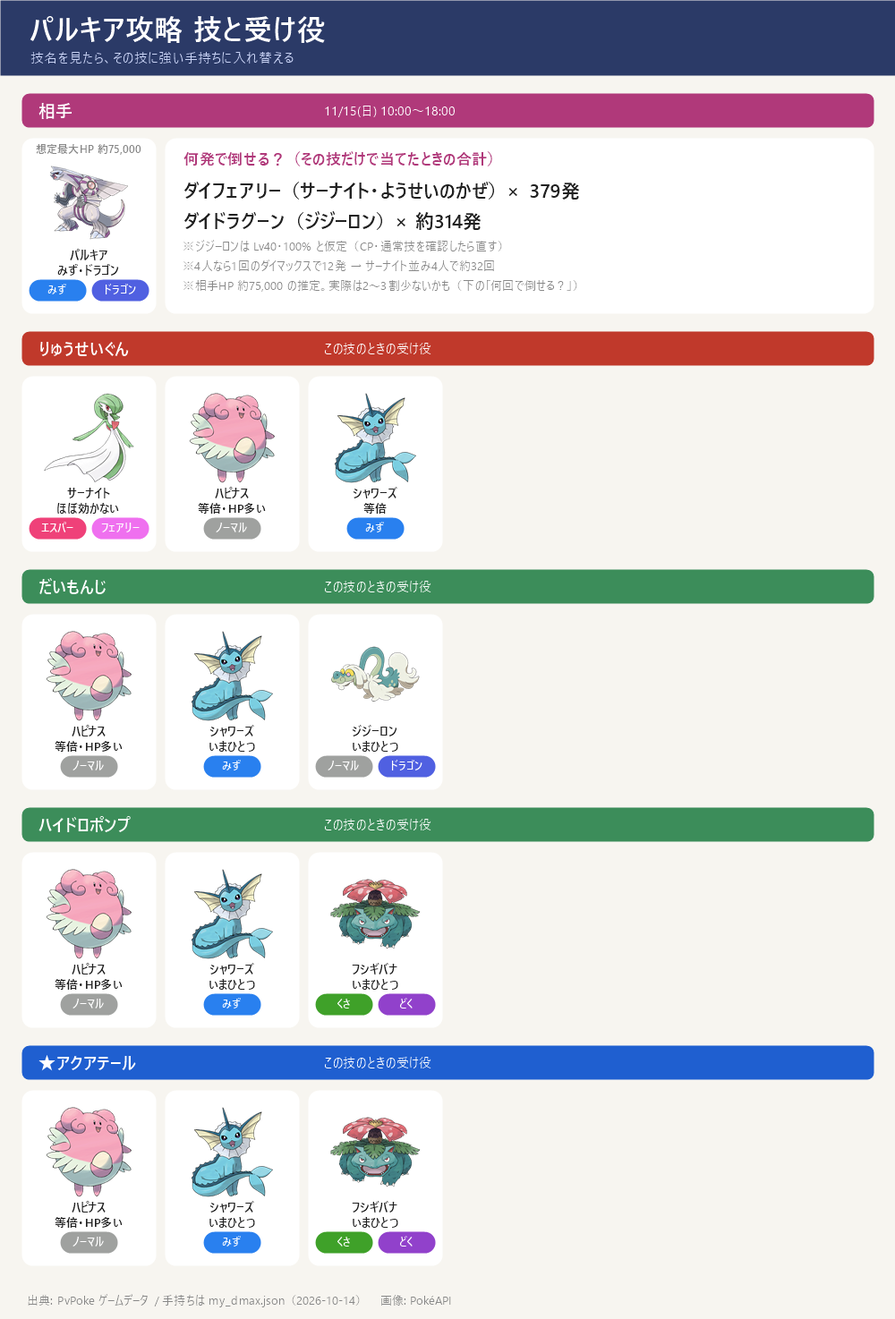
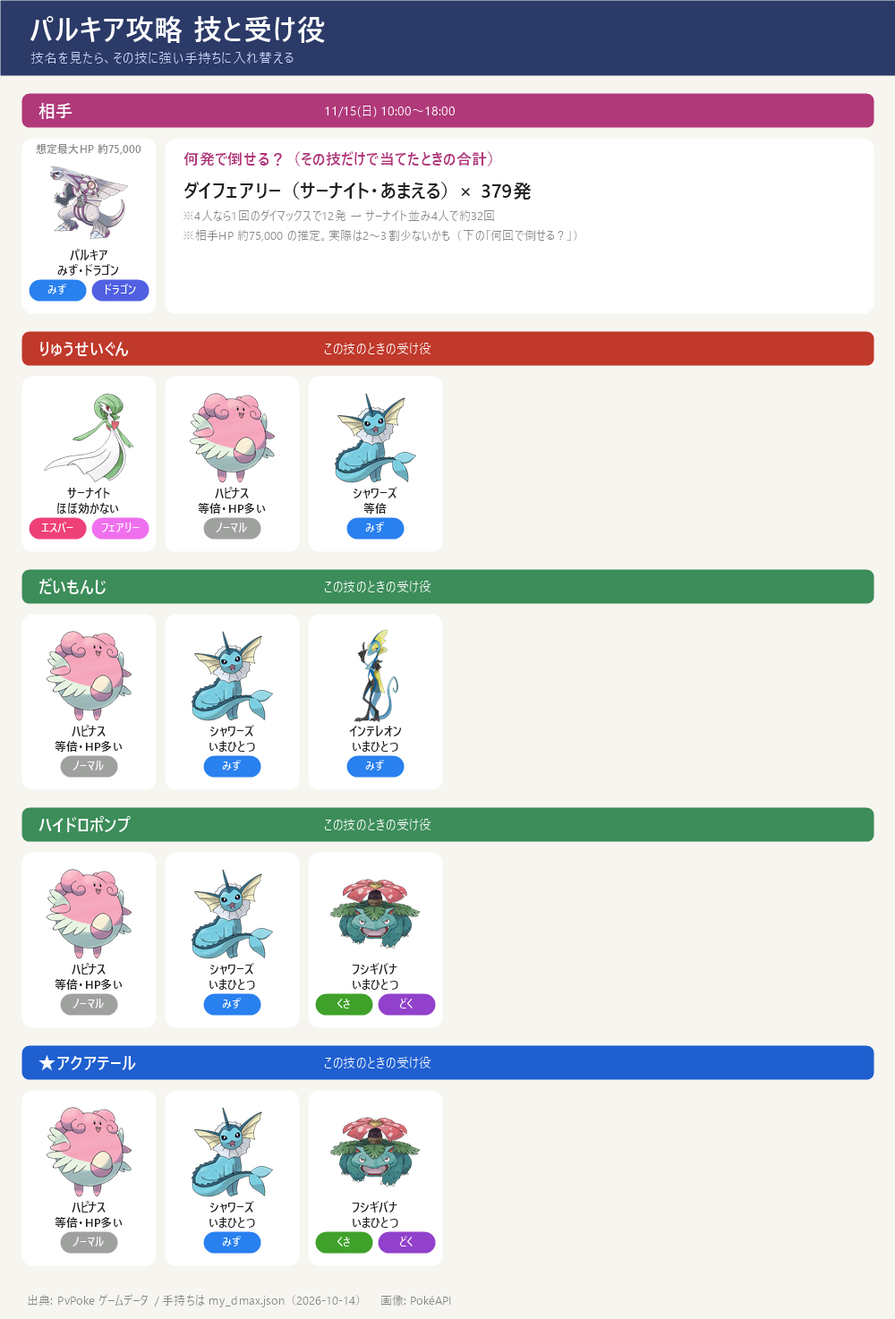
話題ページ dmax-palkia

Changed region(s): [[0.186, 0.1248, 0.651, 0.2185], [0.341, 0.4681, 0.496, 0.5929]]

diff --git a/topics/dmax-palkia/index.html b/topics/dmax-palkia/index.html
@@ -6,5 +6,6 @@ header{background:#2B3A67;color:#fff;padding:16px}header h1{margin:0;font-size:2
 main{max-width:1000px;margin:0 auto;padding:0 16px 40px}h2{font-size:19px;border-left:6px solid #2B3A67;padding-left:10px;margin:28px 0 8px}
 ul{padding-left:1.2em;margin:6px 0}li{margin:4px 0}li.s{list-style:none;margin-left:1em;color:var(--fg);font-size:15px}li.s::before{content:'– ';color:var(--muted)}img{width:100%;height:auto;display:block;border-radius:8px;margin:10px 0;background:#fff}
 .sub{color:var(--muted);margin:0}.src{color:var(--muted);font-size:13px;margin-top:30px}nav a{display:inline-block;margin:4px 8px 0 0}
+details{margin:10px 0}summary{cursor:pointer;color:var(--muted)}
 .nest{background:var(--card);border-left:6px solid #2E7D6B;padding:8px 12px;border-radius:6px;margin:12px 0}
-</style></head><body><header><h1>ダイマックス パルキア 攻略（11/15 日）</h1><nav><a href='../../'>← 一覧</a></nav></header><main><ul><li><b>GOワイルドエリア：グローバル 11/15(日) 10:00～18:00</b>。ダイマックス パルキア（<b>みず・ドラゴン</b>）</li><li><span style='font-weight:bold;color:#B0397A'>弱点：ドラゴン・フェアリー（2倍）</span>。攻撃役はサーナイト（通常技をようせいのかぜに）・ジジーロン（ドラゴンブレスなら）・ニンフィア（入手できたら）</li><li><span style='font-weight:bold;color:#1F5FD0'>ねらい目の技：アクアテール（威力60）</span>。いちばん危ないのは <span style='font-weight:bold;color:#C0392B'>りゅうせいぐん（180）</span>、次がハイドロポンプ（162）</li></ul><h2 style='border-color:#B0397A'>技カード</h2><a href='pokego_extra0.png'><img src='pokego_extra0.png' alt='技カード' loading=lazy></a><ul></ul><h2 style='border-color:#B0397A'>スペシャルアタック候補とねらい目</h2><a href='pokego_extra1.png'><img src='pokego_extra1.png' alt='スペシャルアタック候補とねらい目' loading=lazy></a><ul><li><b>りゅうせいぐん</b>（ドラゴン）威力 <b>180</b> <span style='font-weight:bold;color:#C0392B'>← いちばん危ない</span></li><li><b>だいもんじ</b>（ほのお）威力 <b>140</b></li><li><b>ハイドロポンプ</b>（みず）威力 <b>162</b></li><li><span style='font-weight:bold;color:#1F5FD0'>★ <b>アクアテール</b>（みず）威力 <b>60</b> ← ねらい目（いちばん弱い）</span></li><li><span style='color:#888888'>「あくうせつだん」はオリジンフォルムだけの技なので、ダイマックス版は使わない見込み。通常技はドラゴンブレス／ドラゴンテール</span></li><li>技は選べない。<b>最初の大技の名前を見て</b>、受け役を合わせる</li></ul><h2 style='border-color:#5B4B8A'>手持ちが受けるダメージ</h2><ul><li><b>ハピナス</b>：りゅうせいぐん 180 ／ だいもんじ 140 ／ ハイドロポンプ 162 ／ アクアテール 60</li><li><b>シャワーズ</b>（預け中・CP未確認）：りゅうせいぐん 180 ／ <span style='font-weight:bold;color:#1F5FD0'>だいもんじ 88（いまひとつ）</span> ／ <span style='font-weight:bold;color:#1F5FD0'>ハイドロポンプ 101（いまひとつ）</span> ／ <span style='font-weight:bold;color:#1F5FD0'>アクアテール 38（いまひとつ）</span></li><li><b>サーナイト</b>：<span style='font-weight:bold;color:#1F5FD0'>りゅうせいぐん 70（ほぼ効かない）</span> ／ だいもんじ 140 ／ ハイドロポンプ 162 ／ アクアテール 60</li><li><b>メタグロス</b>：<span style='font-weight:bold;color:#1F5FD0'>りゅうせいぐん 112（いまひとつ）</span> ／ <span style='font-weight:bold;color:#C0392B'>だいもんじ 224（弱点）</span> ／ ハイドロポンプ 162 ／ アクアテール 60</li><li><b>フシギバナ</b>：りゅうせいぐん 180 ／ <span style='font-weight:bold;color:#C0392B'>だいもんじ 224（弱点）</span> ／ <span style='font-weight:bold;color:#1F5FD0'>ハイドロポンプ 101（いまひとつ）</span> ／ <span style='font-weight:bold;color:#1F5FD0'>アクアテール 38（いまひとつ）</span></li><li><b>インテレオン</b>：りゅうせいぐん 180 ／ <span style='font-weight:bold;color:#1F5FD0'>だいもんじ 88（いまひとつ）</span> ／ <span style='font-weight:bold;color:#1F5FD0'>ハイドロポンプ 101（いまひとつ）</span> ／ <span style='font-weight:bold;color:#1F5FD0'>アクアテール 38（いまひとつ）</span></li><li><b>カイリキー</b>：りゅうせいぐん 180 ／ だいもんじ 140 ／ ハイドロポンプ 162 ／ アクアテール 60</li><li><b>ジジーロン</b>（通常技未確認）：<span style='font-weight:bold;color:#C0392B'>りゅうせいぐん 288（弱点）</span> ／ <span style='font-weight:bold;color:#1F5FD0'>だいもんじ 88（いまひとつ）</span> ／ <span style='font-weight:bold;color:#1F5FD0'>ハイドロポンプ 101（いまひとつ）</span> ／ <span style='font-weight:bold;color:#1F5FD0'>アクアテール 38（いまひとつ）</span></li><li><b>ドサイドン</b>：りゅうせいぐん 180 ／ <span style='font-weight:bold;color:#1F5FD0'>だいもんじ 88（いまひとつ）</span> ／ <span style='font-weight:bold;color:#C0392B'>ハイドロポンプ 415（弱点）</span> ／ <span style='font-weight:bold;color:#C0392B'>アクアテール 154（弱点）</span></li><li><b>エースバーン</b>：りゅうせいぐん 180 ／ <span style='font-weight:bold;color:#1F5FD0'>だいもんじ 88（いまひとつ）</span> ／ <span style='font-weight:bold;color:#C0392B'>ハイドロポンプ 259（弱点）</span> ／ <span style='font-weight:bold;color:#C0392B'>アクアテール 96（弱点）</span></li><li><b>ゲンガー</b>：りゅうせいぐん 180 ／ だいもんじ 140 ／ ハイドロポンプ 162 ／ アクアテール 60</li><li><span style='color:#888888'>数字＝技の威力 × 相性（ボスと同じタイプの技は1.2倍）。並びは受けやすい順（防御とHPも計算に入れた）。ハピナスは相性が等倍でもHPがとても多いので上に来る</span></li></ul><h2 style='border-color:#C0392B'>何回で倒せる？（ダイマックス技の回数を逆算）</h2><ul><li><span style='color:#888888'>前提：相手のHP <b>約75,000</b>（Dittobase の推定値。公式の数字は未発表）、相手の防御の補正 0.85（Pokebase の初期値）。この計算で Lv40・100%のカイリキーをディアルガに当てると1発345になり、Dittobase の数字と一致。個体値は15/15/15として、CPからレベルを逆算。キノコ（2倍）・応援・相手の強化は入れていない</span></li><li><b>1発のダメージと、ひとりで倒すのに要る回数</b>（Lv1 → Lv3 にしたとき）</li><li><b>サーナイト（ようせいのかぜ → ダイフェアリー）</b>：1発 <b>198</b> → 379発 ／ Lv3：277 → 271発</li><li><span style='color:#C0392B'>サーナイト（今のねんりき → ダイサイコ）</span>：1発 124 → 605発 → <b>通常技をようせいのかぜに替える</b></li><li><b>ジジーロン（ドラゴンブレス → ダイドラグーン）</b>：Lv40・100%なら1発 239（Lv3：335）。CP・通常技を確認したら計算し直す</li><li><span style='color:#888888'>参考：ニンフィア Lv40・100% は 212（Lv3：297）。ハピナス（はたく）は 87 → 攻撃には使わない</span></li><li><b>ダイマックス1回 ＝ 1人3発</b>。4人なら1回で12発</li><li><b>4人全員がサーナイト並み（約200）なら</b>：1回で約2,400 → <b>ダイマックス約32回</b>。全員 Lv3（約280）なら約3,300 → <b>約23回</b></li><li><b>近道</b>：①サーナイトの通常技を替える ②ダイフェアリーを Lv2～3 に ③マックスキノコ（2倍）</li><li><span style='font-weight:bold;color:#C0392B'>一度に戦えるのは4人まで</span>（公式ヘルプ）。ポケらくは「最低3人」→ <b>4人そろえるのが前提</b>（キャンプファイア・現地で集める）</li><li><span style='color:#888888'>見直し（10/14）：ボスのHPはどのサイトにも未掲載。ポケらくの1発のダメージ（PL40・攻撃15・Lv1でドサイドン345）は上の計算の約1.36倍 → <b>上の回数は多めに出ている可能性</b>。実際は2～3割少ないかもしれない</span></li></ul><h2 style='border-color:#3C8D5A'>戦い方のコツ</h2><ul><li><b>野良では抜けずに受け役を入れ替える</b>：ボスの技（狙い撃ち1つ＋全体攻撃1つ）は挑戦ごとに抽選されるが、途中で抜けると残りの3人が不利になる → 技名を見て、その技に強い手持ちに替える。<b>入り直し</b>（MP は勝ったときだけ減る）は<b>知り合いと組んで、全員で決めたときだけ</b></li><li><b>タンクは通常技だけ連打</b>：スペシャル技よりメーターが早くたまる。0.5秒の通常技（ハピナスのはたく・メタグロスのれんぞくぎり）が向く</li><li><b>タンクは2体</b>：1体目で全体攻撃、2体目で単体攻撃を受ける（ドクターポケゴーゴーのおすすめ）</li><li><b>エネルギーはスワイプで取る</b>（タップではない）。アイコン1個でメーター <b>+10%</b></li><li><b>「狙われている」アイコンが出たら左右にスワイプして避ける</b>。<span style='color:#C0392B'>全体攻撃は避けられない</span></li><li><b>ダイマックス中は「盾 → 回復 → 攻撃」の順で決める</b>：まずダイウォール（3回まで重ねがけ）、HPが減っていればダイリカバリー、それ以外はダイ攻撃</li><li><b>ダイリカバリーは同じ4人グループの「場に出ている」4体だけ回復</b>。<span style='color:#C0392B'>控えのポケモンは回復しない</span></li><li><b>回復量は使ったポケモンの最大HPが基準</b>：Lv1 8%・Lv2 12%・Lv3 16% を4体に同じ量 → ハピナス（HP397）で Lv1 は <b>31</b>、Lv2 は <b>47</b>。<b>Lv2 に上げるのが先</b></li><li><b>★5 は6分40秒で時間切れ</b>。<span style='color:#C0392B'>途中からボスの攻撃が強くなる</span> → ダイマックスは出し惜しみしない</li><li><b>倒れても応援</b>：応援1回で仲間のメーター <b>+20%</b>。速く押しすぎると数えられないので、少し間をあけて押す</li><li><b>勝利の報酬</b>：ほしのすな15,000・XP15,000・ふしぎなアメXL1・アメ10・アメXL1・プレミアボール10（現地参加はXP＋2,500・ボール＋2）。色違いの可能性あり</li></ul><h2 style='border-color:#2B3A67'>MP（マックス粒子）の計画</h2><ul><li><b>1戦 800MP</b>（ポケらく：負けたら減らない）。<b>持てる上限は1,500</b>、1日に集められるのは<b>ふだん800 → 当日は1,600（チケット$11.99なら3,200）</b></li><li><b>11/14（ディアルガ）</b>：前の晩に1,500持っていれば ＋当日1,600 ＝ 3,100 → <b>3戦</b>（チケットありなら4,700 → 5戦）</li><li><b>11/15（パルキア）</b>：14日に使い切ると、15日は当日の1,600だけ → <b>2戦</b>。両日とも戦うなら、14日に700ほど残すと15日も3戦</li><li><b>準備の順番</b>：11/11ごろまではMPをマックス技のレベル上げ（ダイアース・ダイウォール）に使う → <b>11/12・13は使わずにためて1,500に</b>（1日800なので2日で満タン）</li><li><span style='color:#888888'>リサーチ・コード・粒子パックで入るMPは1日の上限に数えない</span></li></ul><h2 style='border-color:#D98E04'>並びと動き方</h2><ul><li><b>並び</b>：サーナイト（攻撃＋りゅうせいぐんの受け）／ジジーロン（攻撃）／ハピナス（回復）／シャワーズ（受け・手元に戻せたら）</li><li><b>ハピナス</b>：4つの技すべてで受けやすい順の1位 → 回復と受けの両方を任せる</li><li><b>シャワーズ</b>：だいもんじ・ハイドロポンプ・アクアテールを<b>いまひとつ</b>で受けられて、HPも多い → <b>パルキア戦の受け役に向く</b>。預け中なら11/15までに手元へ。CP・スペシャル技を確認する</li><li><b>サーナイト</b>：りゅうせいぐんは<b>ほぼ効かない</b>（フェアリー）。みず技・だいもんじは等倍</li><li><b>ジジーロン</b>：りゅうせいぐんが<b>弱点（288）</b> → 技名がりゅうせいぐんなら下げる</li><li><span style='font-weight:bold;color:#C0392B'>出さない</span>：ドサイドン（ハイドロポンプ415）・エースバーン（ハイドロポンプが弱点）・メタグロス（だいもんじが弱点）・ゲンガー</li></ul><p class=src>出典: タイプ・技・威力: PvPoke ゲームデータ・PokéAPI(pogoapi) ／ 人数: 公式ヘルプ ／ MP・報酬・コツ: ポケらく・ゲームウィズ・ドクターポケゴーゴー・公式サイト ／ 手持ち: my_dmax.json ／ 全体の作戦: 「ワイルドエリア2026 ダイマックス攻略」ページ<br>画像: PokéAPI ／ 更新 2026-10-18</p></main></body></html>
+</style></head><body><header><h1>ダイマックス パルキア 攻略（11/15 日）</h1><nav><a href='../../'>← 一覧</a></nav></header><main><ul><li><b>GOワイルドエリア：グローバル 11/15(日) 10:00～18:00</b>。ダイマックス パルキア（<b>みず・ドラゴン</b>）</li><li><span style='font-weight:bold;color:#B0397A'>弱点：ドラゴン・フェアリー（2倍）</span>。攻撃役はサーナイト（あまえる）・ニンフィア（入手できたら）。ほかは等倍なのでゲンガー</li><li><span style='font-weight:bold;color:#1F5FD0'>ねらい目の技：アクアテール（威力60）</span>。いちばん危ないのは <span style='font-weight:bold;color:#C0392B'>りゅうせいぐん（180）</span>、次がハイドロポンプ（162）</li></ul><h2 style='border-color:#B0397A'>技カード</h2><a href='pokego_extra0.png'><img src='pokego_extra0.png' alt='技カード' loading=lazy></a><ul></ul><h2 style='border-color:#B0397A'>スペシャルアタック候補とねらい目</h2><a href='pokego_extra1.png'><img src='pokego_extra1.png' alt='スペシャルアタック候補とねらい目' loading=lazy></a><ul><li><b>りゅうせいぐん</b>（ドラゴン）威力 <b>180</b> <span style='font-weight:bold;color:#C0392B'>← いちばん危ない</span></li><li><b>だいもんじ</b>（ほのお）威力 <b>140</b></li><li><b>ハイドロポンプ</b>（みず）威力 <b>162</b></li><li><span style='font-weight:bold;color:#1F5FD0'>★ <b>アクアテール</b>（みず）威力 <b>60</b> ← ねらい目（いちばん弱い）</span></li><li><span style='color:#888888'>「あくうせつだん」はオリジンフォルムだけの技なので、ダイマックス版は使わない見込み。通常技はドラゴンブレス／ドラゴンテール</span></li><li>技は選べない。<b>最初の大技の名前を見て</b>、受け役を合わせる</li></ul><h2 style='border-color:#5B4B8A'>手持ちが受けるダメージ</h2><ul><li><b>ハピナス</b>：りゅうせいぐん 180 ／ だいもんじ 140 ／ ハイドロポンプ 162 ／ アクアテール 60</li><li><b>シャワーズ</b>（預け中・CP未確認）：りゅうせいぐん 180 ／ <span style='font-weight:bold;color:#1F5FD0'>だいもんじ 88（いまひとつ）</span> ／ <span style='font-weight:bold;color:#1F5FD0'>ハイドロポンプ 101（いまひとつ）</span> ／ <span style='font-weight:bold;color:#1F5FD0'>アクアテール 38（いまひとつ）</span></li><li><b>サーナイト</b>：<span style='font-weight:bold;color:#1F5FD0'>りゅうせいぐん 70（ほぼ効かない）</span> ／ だいもんじ 140 ／ ハイドロポンプ 162 ／ アクアテール 60</li><li><b>メタグロス</b>：<span style='font-weight:bold;color:#1F5FD0'>りゅうせいぐん 112（いまひとつ）</span> ／ <span style='font-weight:bold;color:#C0392B'>だいもんじ 224（弱点）</span> ／ ハイドロポンプ 162 ／ アクアテール 60</li><li><b>フシギバナ</b>：りゅうせいぐん 180 ／ <span style='font-weight:bold;color:#C0392B'>だいもんじ 224（弱点）</span> ／ <span style='font-weight:bold;color:#1F5FD0'>ハイドロポンプ 101（いまひとつ）</span> ／ <span style='font-weight:bold;color:#1F5FD0'>アクアテール 38（いまひとつ）</span></li><li><b>インテレオン</b>：りゅうせいぐん 180 ／ <span style='font-weight:bold;color:#1F5FD0'>だいもんじ 88（いまひとつ）</span> ／ <span style='font-weight:bold;color:#1F5FD0'>ハイドロポンプ 101（いまひとつ）</span> ／ <span style='font-weight:bold;color:#1F5FD0'>アクアテール 38（いまひとつ）</span></li><li><b>カイリキー</b>：りゅうせいぐん 180 ／ だいもんじ 140 ／ ハイドロポンプ 162 ／ アクアテール 60</li><li><b>ドサイドン</b>：りゅうせいぐん 180 ／ <span style='font-weight:bold;color:#1F5FD0'>だいもんじ 88（いまひとつ）</span> ／ <span style='font-weight:bold;color:#C0392B'>ハイドロポンプ 415（弱点）</span> ／ <span style='font-weight:bold;color:#C0392B'>アクアテール 154（弱点）</span></li><li><b>エースバーン</b>：りゅうせいぐん 180 ／ <span style='font-weight:bold;color:#1F5FD0'>だいもんじ 88（いまひとつ）</span> ／ <span style='font-weight:bold;color:#C0392B'>ハイドロポンプ 259（弱点）</span> ／ <span style='font-weight:bold;color:#C0392B'>アクアテール 96（弱点）</span></li><li><b>ゲンガー</b>：りゅうせいぐん 180 ／ だいもんじ 140 ／ ハイドロポンプ 162 ／ アクアテール 60</li><li><span style='color:#888888'>数字＝技の威力 × 相性（ボスと同じタイプの技は1.2倍）。並びは受けやすい順（防御とHPも計算に入れた）。ハピナスは相性が等倍でもHPがとても多いので上に来る</span></li></ul><h2 style='border-color:#C0392B'>何回で倒せる？（ダイマックス技の回数を逆算）</h2><ul><li><span style='color:#888888'>前提：相手のHP <b>約75,000</b>（Dittobase の推定値。公式の数字は未発表）、相手の防御の補正 0.85（Pokebase の初期値）。この計算で Lv40・100%のカイリキーをディアルガに当てると1発345になり、Dittobase の数字と一致。個体値は15/15/15として、CPからレベルを逆算。キノコ（2倍）・応援・相手の強化は入れていない</span></li><li><b>1発のダメージと、ひとりで倒すのに要る回数</b>（Lv1 → Lv3 にしたとき）</li><li><b>サーナイト（あまえる → ダイフェアリー）</b>：1発 <b>198</b> → 379発 ／ Lv3：277 → 271発</li><li><span style='color:#888888'>参考：ニンフィア Lv40・100% は 212（Lv3：297）。ハピナス（はたく）は 87 → 攻撃には使わない</span></li><li><b>ダイマックス1回 ＝ 1人3発</b>。4人なら1回で12発</li><li><b>4人全員がサーナイト並み（約200）なら</b>：1回で約2,400 → <b>ダイマックス約32回</b>。全員 Lv3（約280）なら約3,300 → <b>約23回</b></li><li><b>近道</b>：①ダイフェアリーを Lv2～3 に ②マックスキノコ（2倍）</li><li><span style='font-weight:bold;color:#C0392B'>一度に戦えるのは4人まで</span>（公式ヘルプ）。ポケらくは「最低3人」→ <b>4人そろえるのが前提</b>（キャンプファイア・現地で集める）</li><li><span style='color:#888888'>見直し（10/14）：ボスのHPはどのサイトにも未掲載。ポケらくの1発のダメージ（PL40・攻撃15・Lv1でドサイドン345）は上の計算の約1.36倍 → <b>上の回数は多めに出ている可能性</b>。実際は2～3割少ないかもしれない</span></li></ul><h2 style='border-color:#3C8D5A'>戦い方のコツ</h2><ul><li><span style='font-weight:bold;color:#C0392B'>出陣させる3体：サーナイト・ゲンガー・ハピナス</span>（サーナイト＝攻撃・りゅうせいぐんの盾／ゲンガー＝攻撃／ハピナス＝最初の盾・回復）。<span style='color:#888888'>マックスバトルに連れて行けるのは1人3体まで。下の入れ替えはこの3体の中で行う</span></li><li><span style='font-weight:bold;color:#1F5FD0'>最初の受け役はハピナス</span>：ボスの技（狙い撃ち・全体攻撃）は<b>1回使われるまで分からない</b>（ほかの人に当たっても技名は出る）→ 技名が分かるまでは<b>ハピナス</b>で受ける（どの技も弱点にならず、HP が多い）。分かったら下のとおり入れ替える</li><li class=s><b>りゅうせいぐん</b>なら → 盾を<b>サーナイト</b>に替える（ほぼ効かない）。攻撃は<b>サーナイト・ゲンガー</b>でいく</li><li class=s><b>だいもんじ</b>なら → 盾はそのまま<b>ハピナス</b>（等倍）。攻撃は<b>サーナイト・ゲンガー</b>でいく</li><li class=s><b>ハイドロポンプ</b>なら → 盾はそのまま<b>ハピナス</b>（等倍）。攻撃は<b>サーナイト・ゲンガー</b>でいく</li><li class=s><b>アクアテール</b>なら → 盾はそのまま<b>ハピナス</b>（等倍）。攻撃は<b>サーナイト・ゲンガー</b>でいく</li><li><b>野良では抜けずに受け役を入れ替える</b>：ボスの技（狙い撃ち1つ＋全体攻撃1つ）は挑戦ごとに抽選されるが、途中で抜けると残りの3人が不利になる → 技名を見て、その技に強い手持ちに替える。<b>入り直し</b>（MP は勝ったときだけ減る）は<b>知り合いと組んで、全員で決めたときだけ</b></li><li><b>タンクは通常技だけ連打</b>：スペシャル技よりメーターが早くたまる。0.5秒の通常技（ハピナスのはたく・メタグロスのれんぞくぎり）が向く</li><li><b>タンクは2体</b>：1体目で全体攻撃、2体目で単体攻撃を受ける（ドクターポケゴーゴーのおすすめ）</li><li><b>エネルギーはスワイプで取る</b>（タップではない）。アイコン1個でメーター <b>+10%</b></li><li><b>「狙われている」アイコンが出たら左右にスワイプして避ける</b>。<span style='color:#C0392B'>全体攻撃は避けられない</span></li><li><b>ダイマックス中は「盾 → 回復 → 攻撃」の順で決める</b>：まずダイウォール（3回まで重ねがけ）、HPが減っていればダイリカバリー、それ以外はダイ攻撃</li><li><b>ダイリカバリーは同じ4人グループの「場に出ている」4体だけ回復</b>。<span style='color:#C0392B'>控えのポケモンは回復しない</span></li><li><b>回復量は使ったポケモンの最大HPが基準</b>：Lv1 8%・Lv2 12%・Lv3 16% を4体に同じ量 → ハピナス（HP397）で Lv1 は <b>31</b>、Lv2 は <b>47</b>。<b>Lv2 に上げるのが先</b></li><li><b>★5 は6分40秒で時間切れ</b>。<span style='color:#C0392B'>途中からボスの攻撃が強くなる</span> → ダイマックスは出し惜しみしない</li><li><b>倒れても応援</b>：応援1回で仲間のメーター <b>+20%</b>。速く押しすぎると数えられないので、少し間をあけて押す</li><li><b>勝利の報酬</b>：ほしのすな15,000・XP15,000・ふしぎなアメXL1・アメ10・アメXL1・プレミアボール10（現地参加はXP＋2,500・ボール＋2）。色違いの可能性あり</li></ul><h2 style='border-color:#2B3A67'>MP（マックス粒子）の計画</h2><ul><li><b>1戦 800MP</b>（ポケらく：負けたら減らない）。<b>持てる上限は1,500</b>、1日に集められるのは<b>ふだん800 → 当日は1,600（チケット$11.99なら3,200）</b></li><li><b>11/14（ディアルガ）</b>：前の晩に1,500持っていれば ＋当日1,600 ＝ 3,100 → <b>3戦</b>（チケットありなら4,700 → 5戦）</li><li><b>11/15（パルキア）</b>：14日に使い切ると、15日は当日の1,600だけ → <b>2戦</b>。両日とも戦うなら、14日に700ほど残すと15日も3戦</li><li><b>準備の順番</b>：11/11ごろまではMPをマックス技のレベル上げ（ダイアース・ダイウォール）に使う → <b>11/12・13は使わずにためて1,500に</b>（1日800なので2日で満タン）</li><li><span style='color:#888888'>リサーチ・コード・粒子パックで入るMPは1日の上限に数えない</span></li></ul><h2 style='border-color:#D98E04'>並びと動き方</h2><ul><li><b>ハピナス</b>：4つの技すべてで受けやすい順の1位 → 回復と受けの両方を任せる</li><li><b>シャワーズ</b>：だいもんじ・ハイドロポンプ・アクアテールを<b>いまひとつ</b>で受けられて、HPも多い → <b>パルキア戦の受け役に向く</b>。預け中なら11/15までに手元へ。CP・スペシャル技を確認する</li><li><b>サーナイト</b>：りゅうせいぐんは<b>ほぼ効かない</b>（フェアリー）。みず技・だいもんじは等倍</li><li><span style='font-weight:bold;color:#C0392B'>出さない</span>：ドサイドン（ハイドロポンプ415）・エースバーン（ハイドロポンプが弱点）・メタグロス（だいもんじが弱点）。<b>ゲンガー</b>は HP が少ないので受けには出さず、攻撃のときだけ</li></ul><p class=src>出典: タイプ・技・威力: PvPoke ゲームデータ・PokéAPI(pogoapi) ／ 人数: 公式ヘルプ ／ MP・報酬・コツ: ポケらく・ゲームウィズ・ドクターポケゴーゴー・公式サイト ／ 手持ち: my_dmax.json ／ 全体の作戦: 「ワイルドエリア2026 ダイマックス攻略」ページ<br>画像: PokéAPI ／ 更新 2026-10-18</p></main></body></html>
